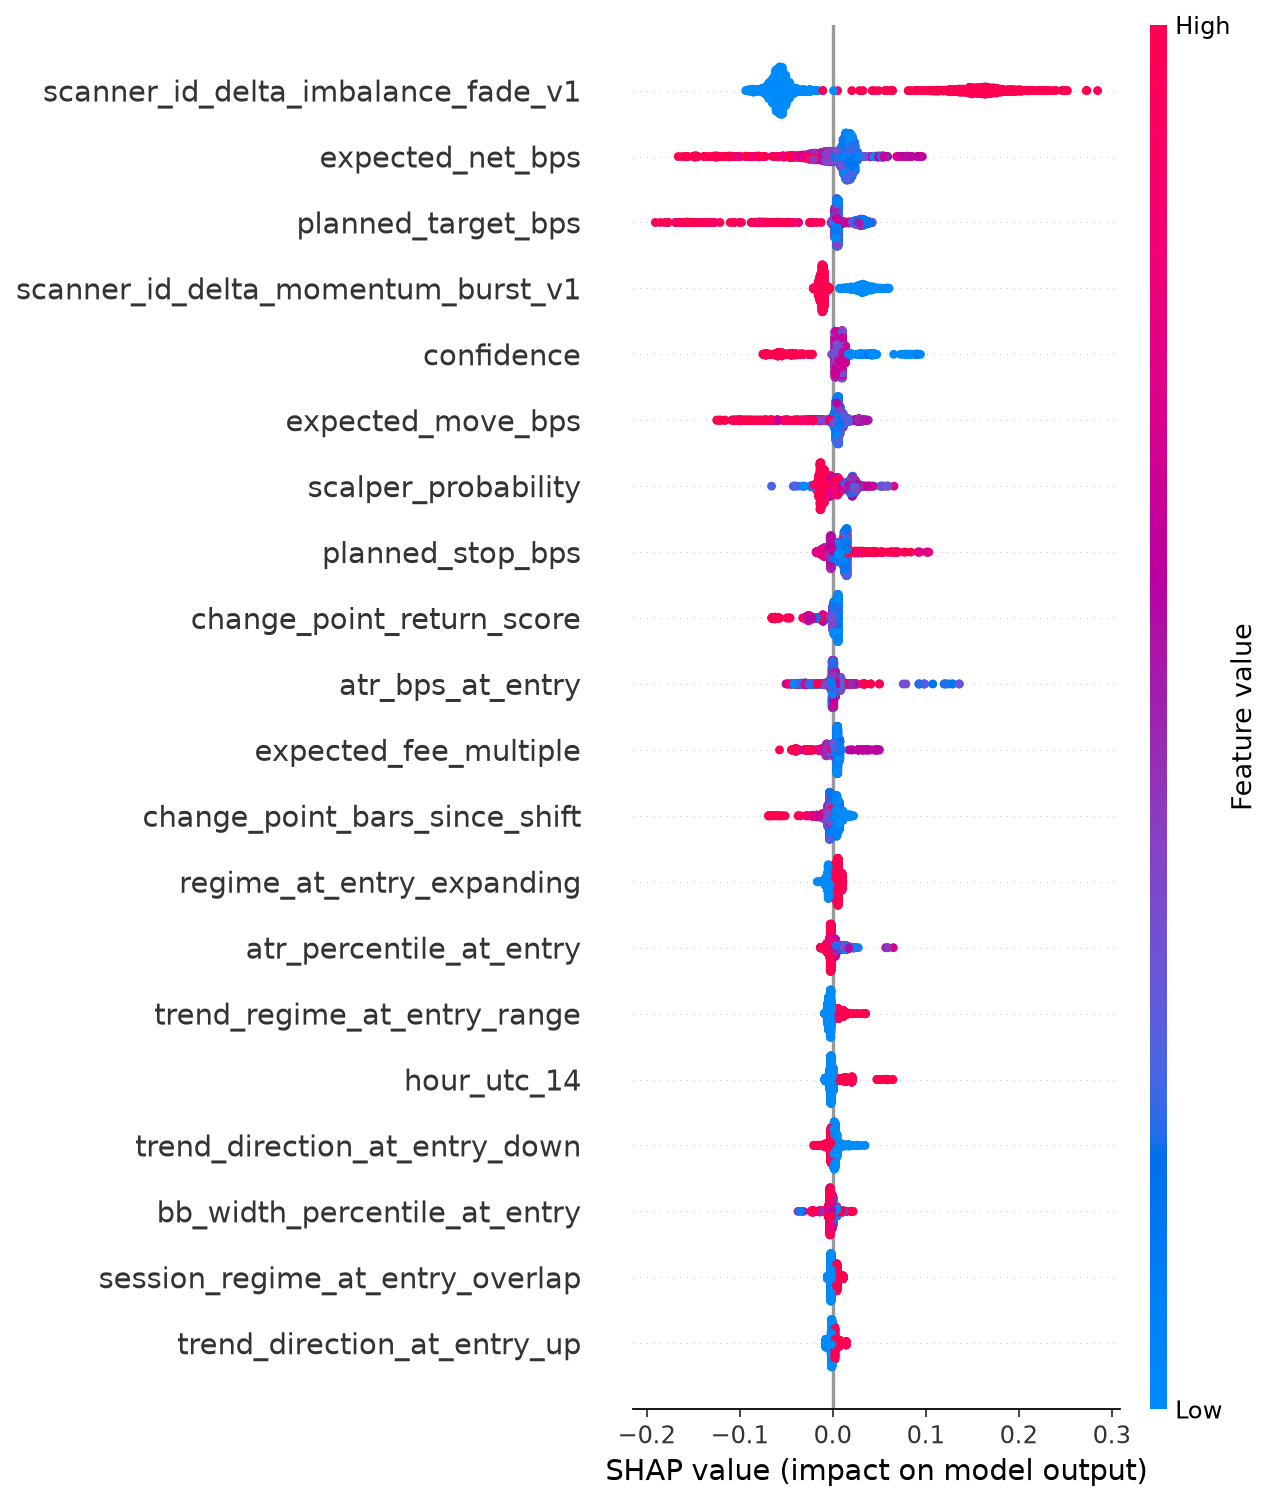
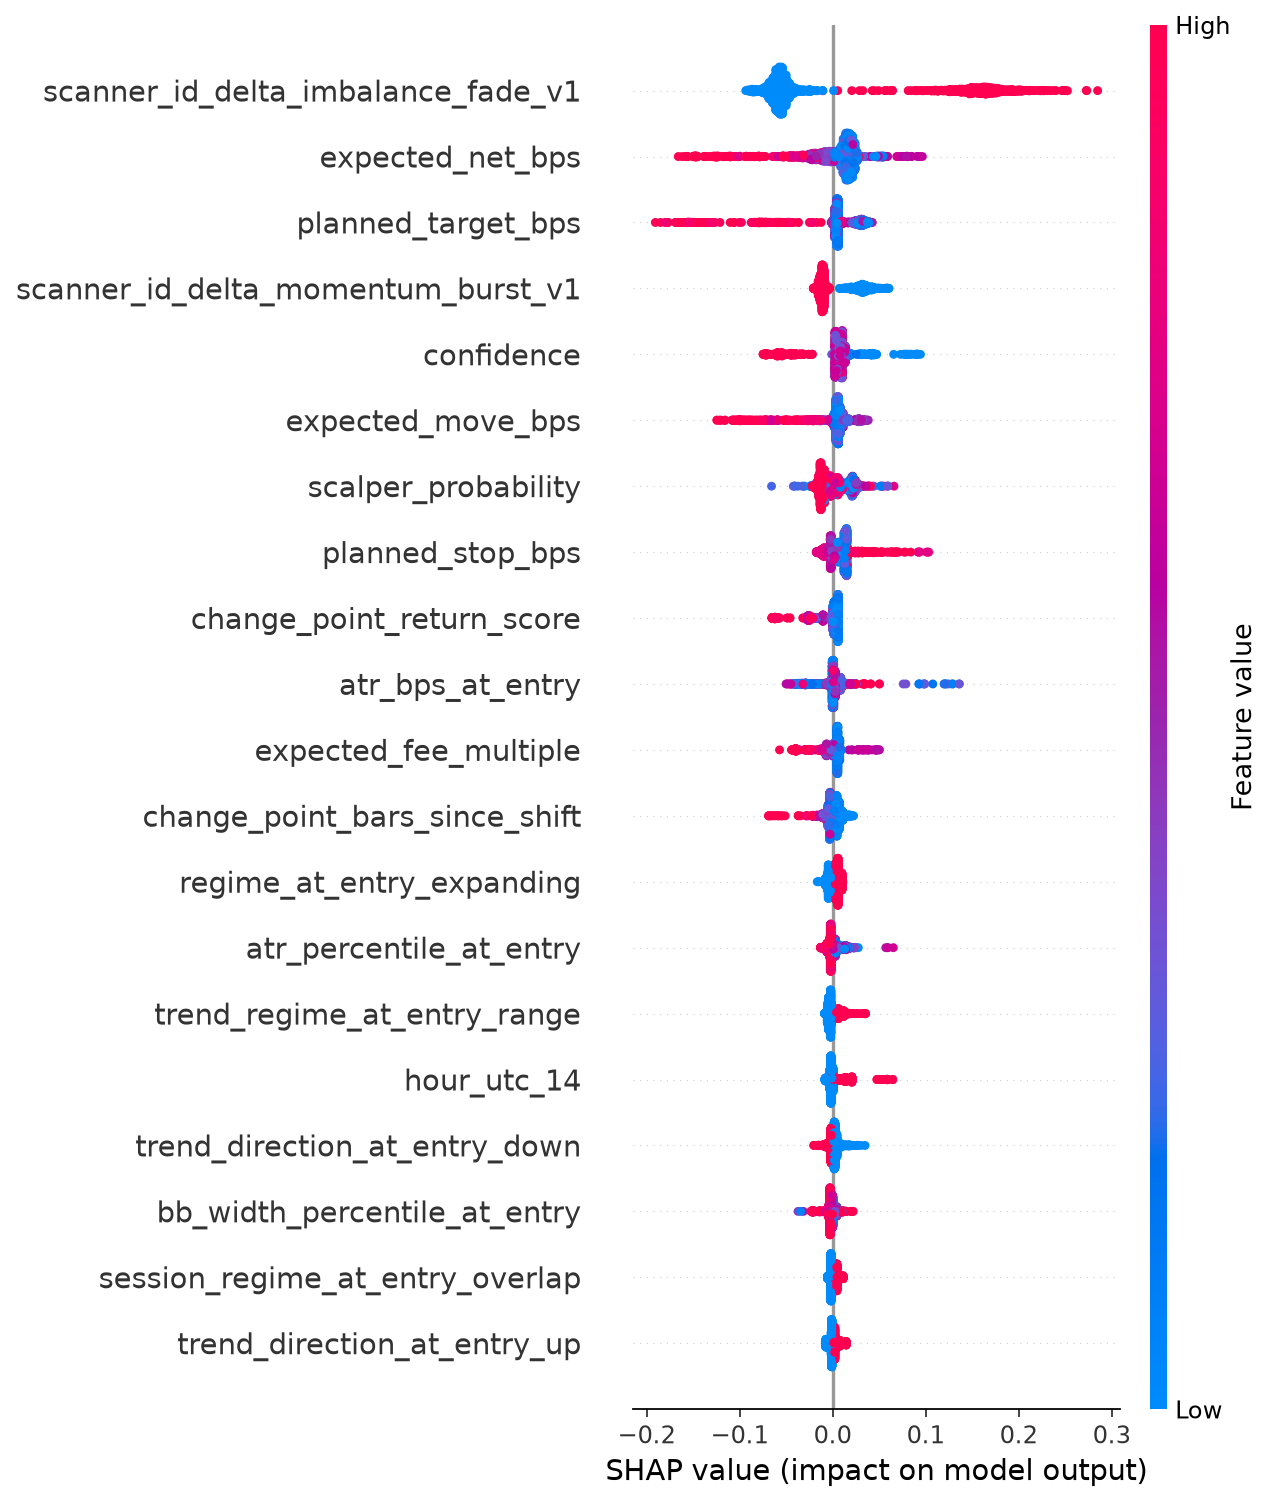
fix: guard native LightGBM SHAP loading

diff --git a/tests/test_delta_scalper_lightgbm_shap.py b/tests/test_delta_scalper_lightgbm_shap.py
@@ -1,8 +1,12 @@
 from __future__ import annotations
 
+import json
+
+import joblib
 import numpy as np
 import pandas as pd
 import pytest
+from lightgbm import LGBMClassifier
 
 pytest.importorskip("shap")
 
@@ -10,6 +14,7 @@ from vnedge.research.delta_scalper_lightgbm_shap import (
     _flat_grouped_attribution,
     aggregate_base_shap,
     base_feature_name,
+    load_approved_booster_artifacts,
 )
 
 
@@ -72,3 +77,41 @@ def test_flat_grouped_shap_includes_realized_economics_and_sample_control():
     assert grouped.loc[0, "profit_factor"] == pytest.approx(2.0)
     assert grouped.loc[0, "average_prediction_probability"] == pytest.approx(0.6)
     assert grouped.loc[0, "shap_scanner_id"] == pytest.approx(0.3)
+
+
+def test_saved_booster_loader_requires_approved_complete_bundle(tmp_path):
+    (tmp_path / "meta_config.json").write_text(
+        json.dumps(
+            {
+                "approved_for_shap": False,
+                "frozen_after_untouched_success": True,
+                "live_integration_enabled": False,
+            }
+        )
+    )
+    with pytest.raises(ValueError, match="not approved"):
+        load_approved_booster_artifacts(tmp_path)
+
+    model = LGBMClassifier(n_estimators=2, verbosity=-1, random_state=42)
+    x = np.asarray([[0.0], [1.0], [2.0], [3.0]])
+    model.fit(x, np.asarray([0, 0, 1, 1]))
+    model.booster_.save_model(str(tmp_path / "meta_model_lgbm.txt"))
+    joblib.dump({"fitted": True}, tmp_path / "meta_preprocessor.joblib")
+    (tmp_path / "meta_config.json").write_text(
+        json.dumps(
+            {
+                "native_booster": "meta_model_lgbm.txt",
+                "preprocessor": "meta_preprocessor.joblib",
+                "approved_for_shap": True,
+                "frozen_after_untouched_success": True,
+                "live_integration_enabled": False,
+            }
+        )
+    )
+
+    booster, preprocessor, config = load_approved_booster_artifacts(tmp_path)
+
+    assert booster.num_trees() >= 1
+    assert booster.predict(x).shape == (4,)
+    assert preprocessor == {"fitted": True}
+    assert config["approved_for_shap"] is True

diff --git a/src/vnedge/research/delta_scalper_lightgbm_shap.py b/src/vnedge/research/delta_scalper_lightgbm_shap.py
@@ -9,6 +9,7 @@ from pathlib import Path
 from tempfile import NamedTemporaryFile
 from typing import Any
 
+import joblib
 import matplotlib
 import numpy as np
 import pandas as pd
@@ -16,7 +17,7 @@ import pandas as pd
 matplotlib.use("Agg")
 import matplotlib.pyplot as plt
 import shap
-from lightgbm import early_stopping
+from lightgbm import Booster, early_stopping
 
 from vnedge.research.delta_scalper_lightgbm_meta import (
     CATEGORICAL_FEATURES,
@@ -56,6 +57,30 @@ PRIMARY_SIGNAL_FEATURES = (
     "scalper_probability",
     "confidence",
 )
+
+
+def load_approved_booster_artifacts(
+    artifact_dir: Path,
+) -> tuple[Booster, Any, dict[str, Any]]:
+    """Load a frozen-success Booster without reconstructing a classifier wrapper."""
+    config_path = artifact_dir / "meta_config.json"
+    try:
+        config = json.loads(config_path.read_text(encoding="utf-8"))
+    except (OSError, json.JSONDecodeError) as exc:
+        raise ValueError("approved LightGBM SHAP config is unavailable") from exc
+    if not (
+        config.get("approved_for_shap") is True
+        and config.get("frozen_after_untouched_success") is True
+        and config.get("live_integration_enabled") is False
+    ):
+        raise ValueError("LightGBM artifacts are not approved for SHAP loading")
+    booster_path = artifact_dir / str(config.get("native_booster") or "")
+    preprocessor_path = artifact_dir / str(config.get("preprocessor") or "")
+    if not booster_path.is_file() or not preprocessor_path.is_file():
+        raise ValueError("approved LightGBM SHAP bundle is incomplete")
+    booster = Booster(model_file=str(booster_path))
+    preprocessor = joblib.load(preprocessor_path)
+    return booster, preprocessor, config
 
 
 def _atomic_json(path: Path, payload: dict[str, Any]) -> None:

diff --git a/src/vnedge/research/delta_scalper_lightgbm_meta.py b/src/vnedge/research/delta_scalper_lightgbm_meta.py
@@ -445,11 +445,31 @@ def run(args: argparse.Namespace) -> dict[str, Any]:
         temporary = args.artifact_dir / "meta_model_lgbm.joblib.tmp"
         joblib.dump(frozen_model_bundle, temporary)
         temporary.replace(args.artifact_dir / "meta_model_lgbm.joblib")
+        booster_temporary = args.artifact_dir / "meta_model_lgbm.txt.tmp"
+        model.booster_.save_model(str(booster_temporary))
+        booster_temporary.replace(args.artifact_dir / "meta_model_lgbm.txt")
+        preprocessor_temporary = args.artifact_dir / "meta_preprocessor.joblib.tmp"
+        joblib.dump(preprocessor, preprocessor_temporary)
+        preprocessor_temporary.replace(args.artifact_dir / "meta_preprocessor.joblib")
         _atomic_json(
             args.artifact_dir / "meta_threshold.json",
             {
                 "threshold": float(selected["threshold"]),
                 "frozen_after_untouched_success": True,
+                "live_integration_enabled": False,
+            },
+        )
+        _atomic_json(
+            args.artifact_dir / "meta_config.json",
+            {
+                "features": list(FEATURES),
+                "numeric_features": list(NUMERIC_FEATURES),
+                "categorical_features": list(CATEGORICAL_FEATURES),
+                "threshold": float(selected["threshold"]),
+                "native_booster": "meta_model_lgbm.txt",
+                "preprocessor": "meta_preprocessor.joblib",
+                "frozen_after_untouched_success": True,
+                "approved_for_shap": True,
                 "live_integration_enabled": False,
             },
         )

diff --git a/docs/DELTA_SCALPER_ENGINE.md b/docs/DELTA_SCALPER_ENGINE.md
@@ -330,3 +330,11 @@ after-cost expectancy, PF, win rate, average model probability, and one column
 per causal SHAP contribution. The LightGBM split-importance table is retained as
 a comparison, but no model, scaler, or deployment threshold is saved while the
 selection profitability gates fail.
+
+If a future configuration clears both selection and untouched success gates,
+the research trainer additionally writes a native `meta_model_lgbm.txt` Booster,
+the fitted `meta_preprocessor.joblib`, and an approval-bearing `meta_config.json`.
+Saved-model SHAP must load the native model with `lightgbm.Booster(model_file=...)`;
+`load_approved_booster_artifacts` enforces the approval flags and complete bundle
+before returning that Booster. It does not reconstruct an `LGBMClassifier` and
+does not enable live integration.
